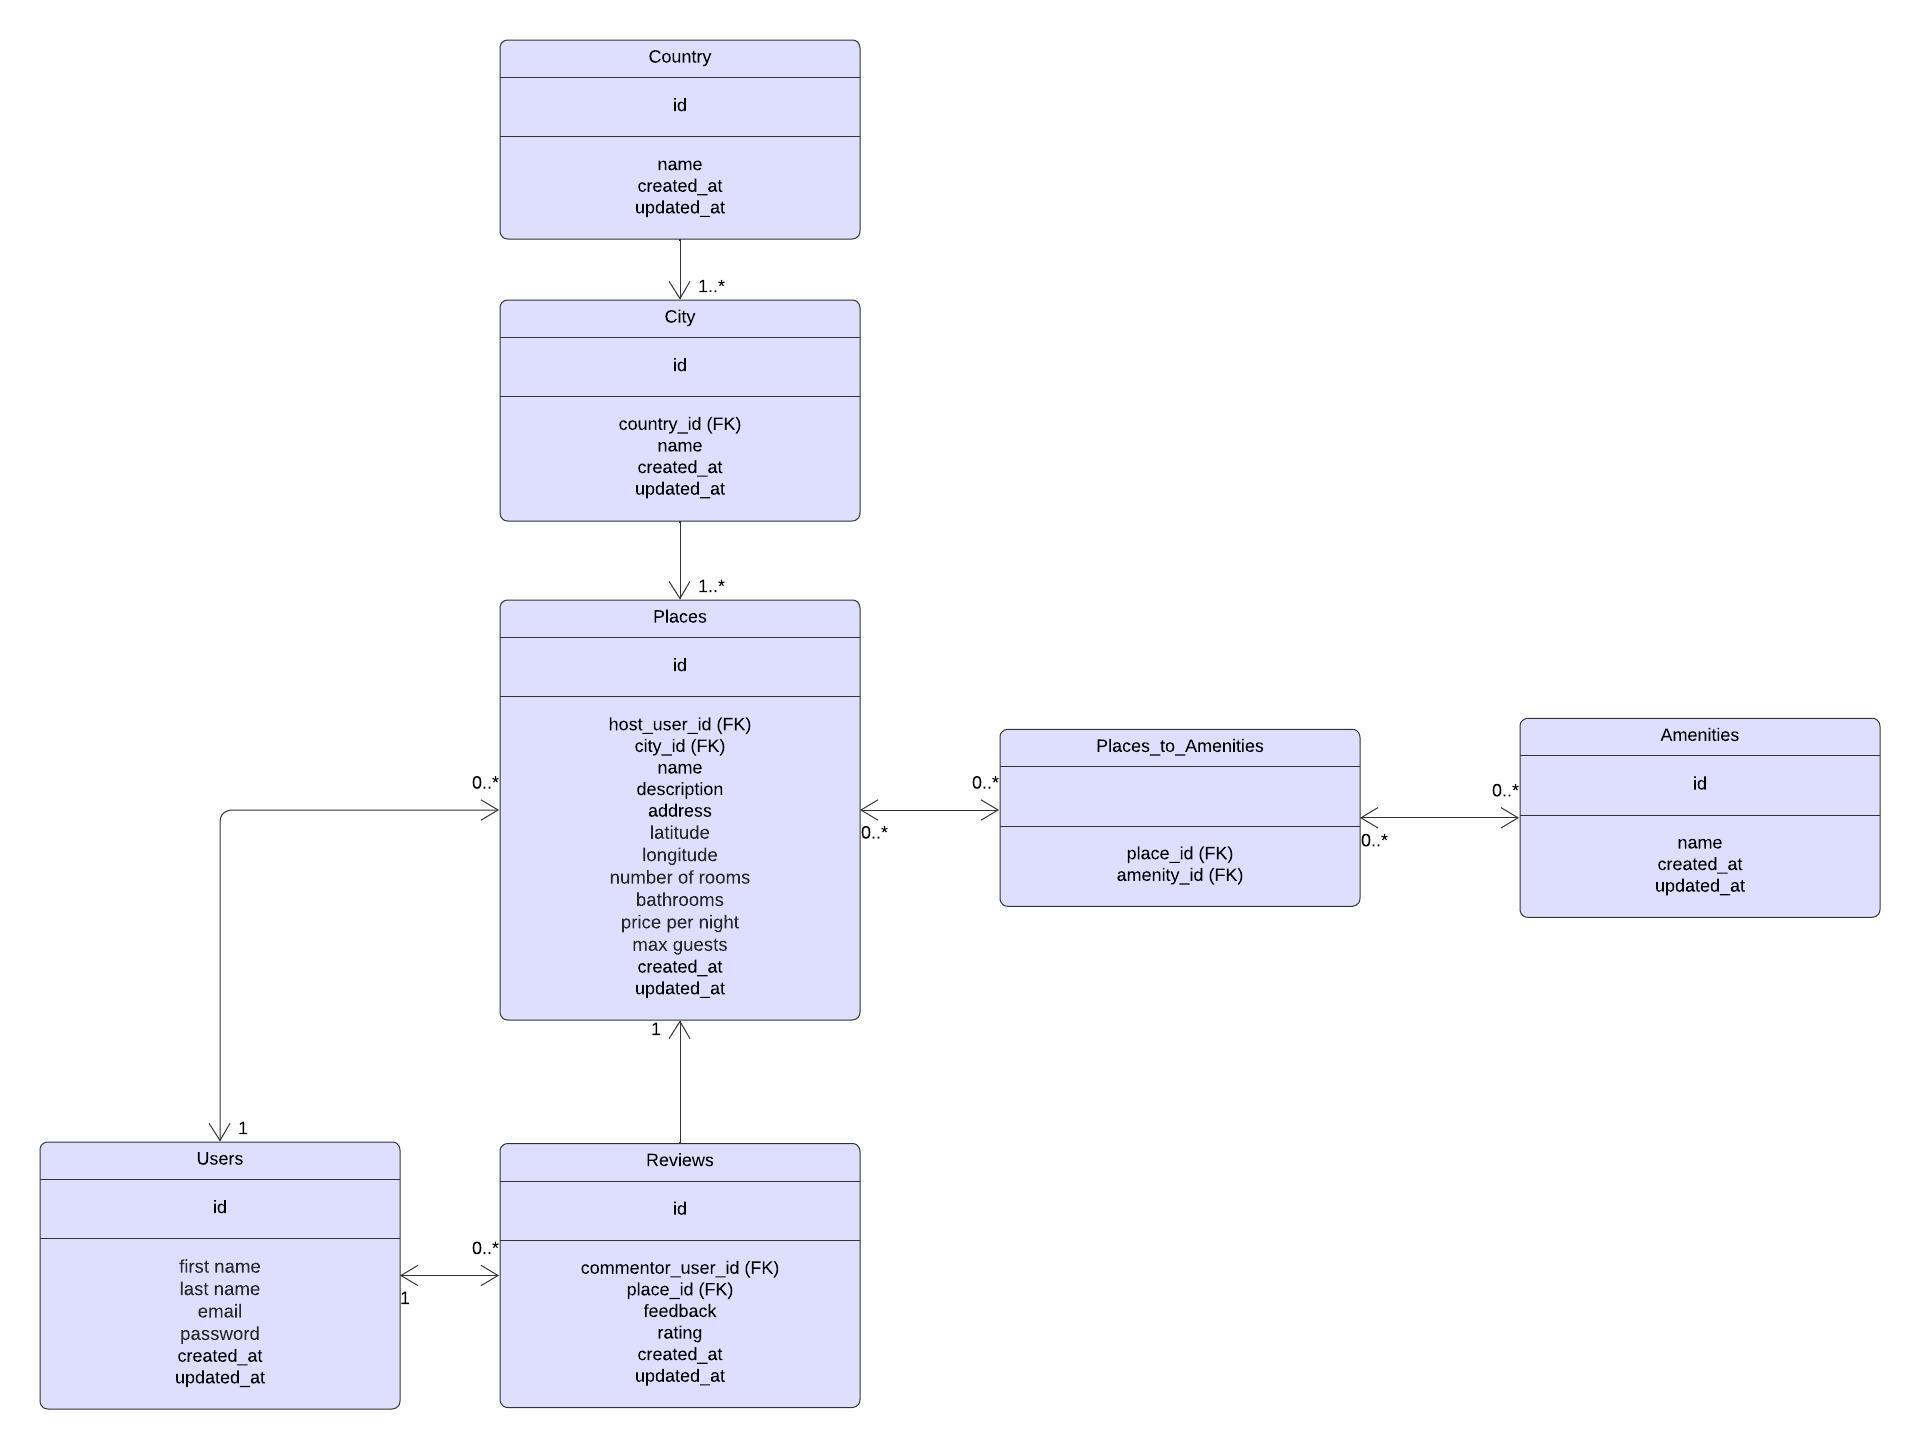
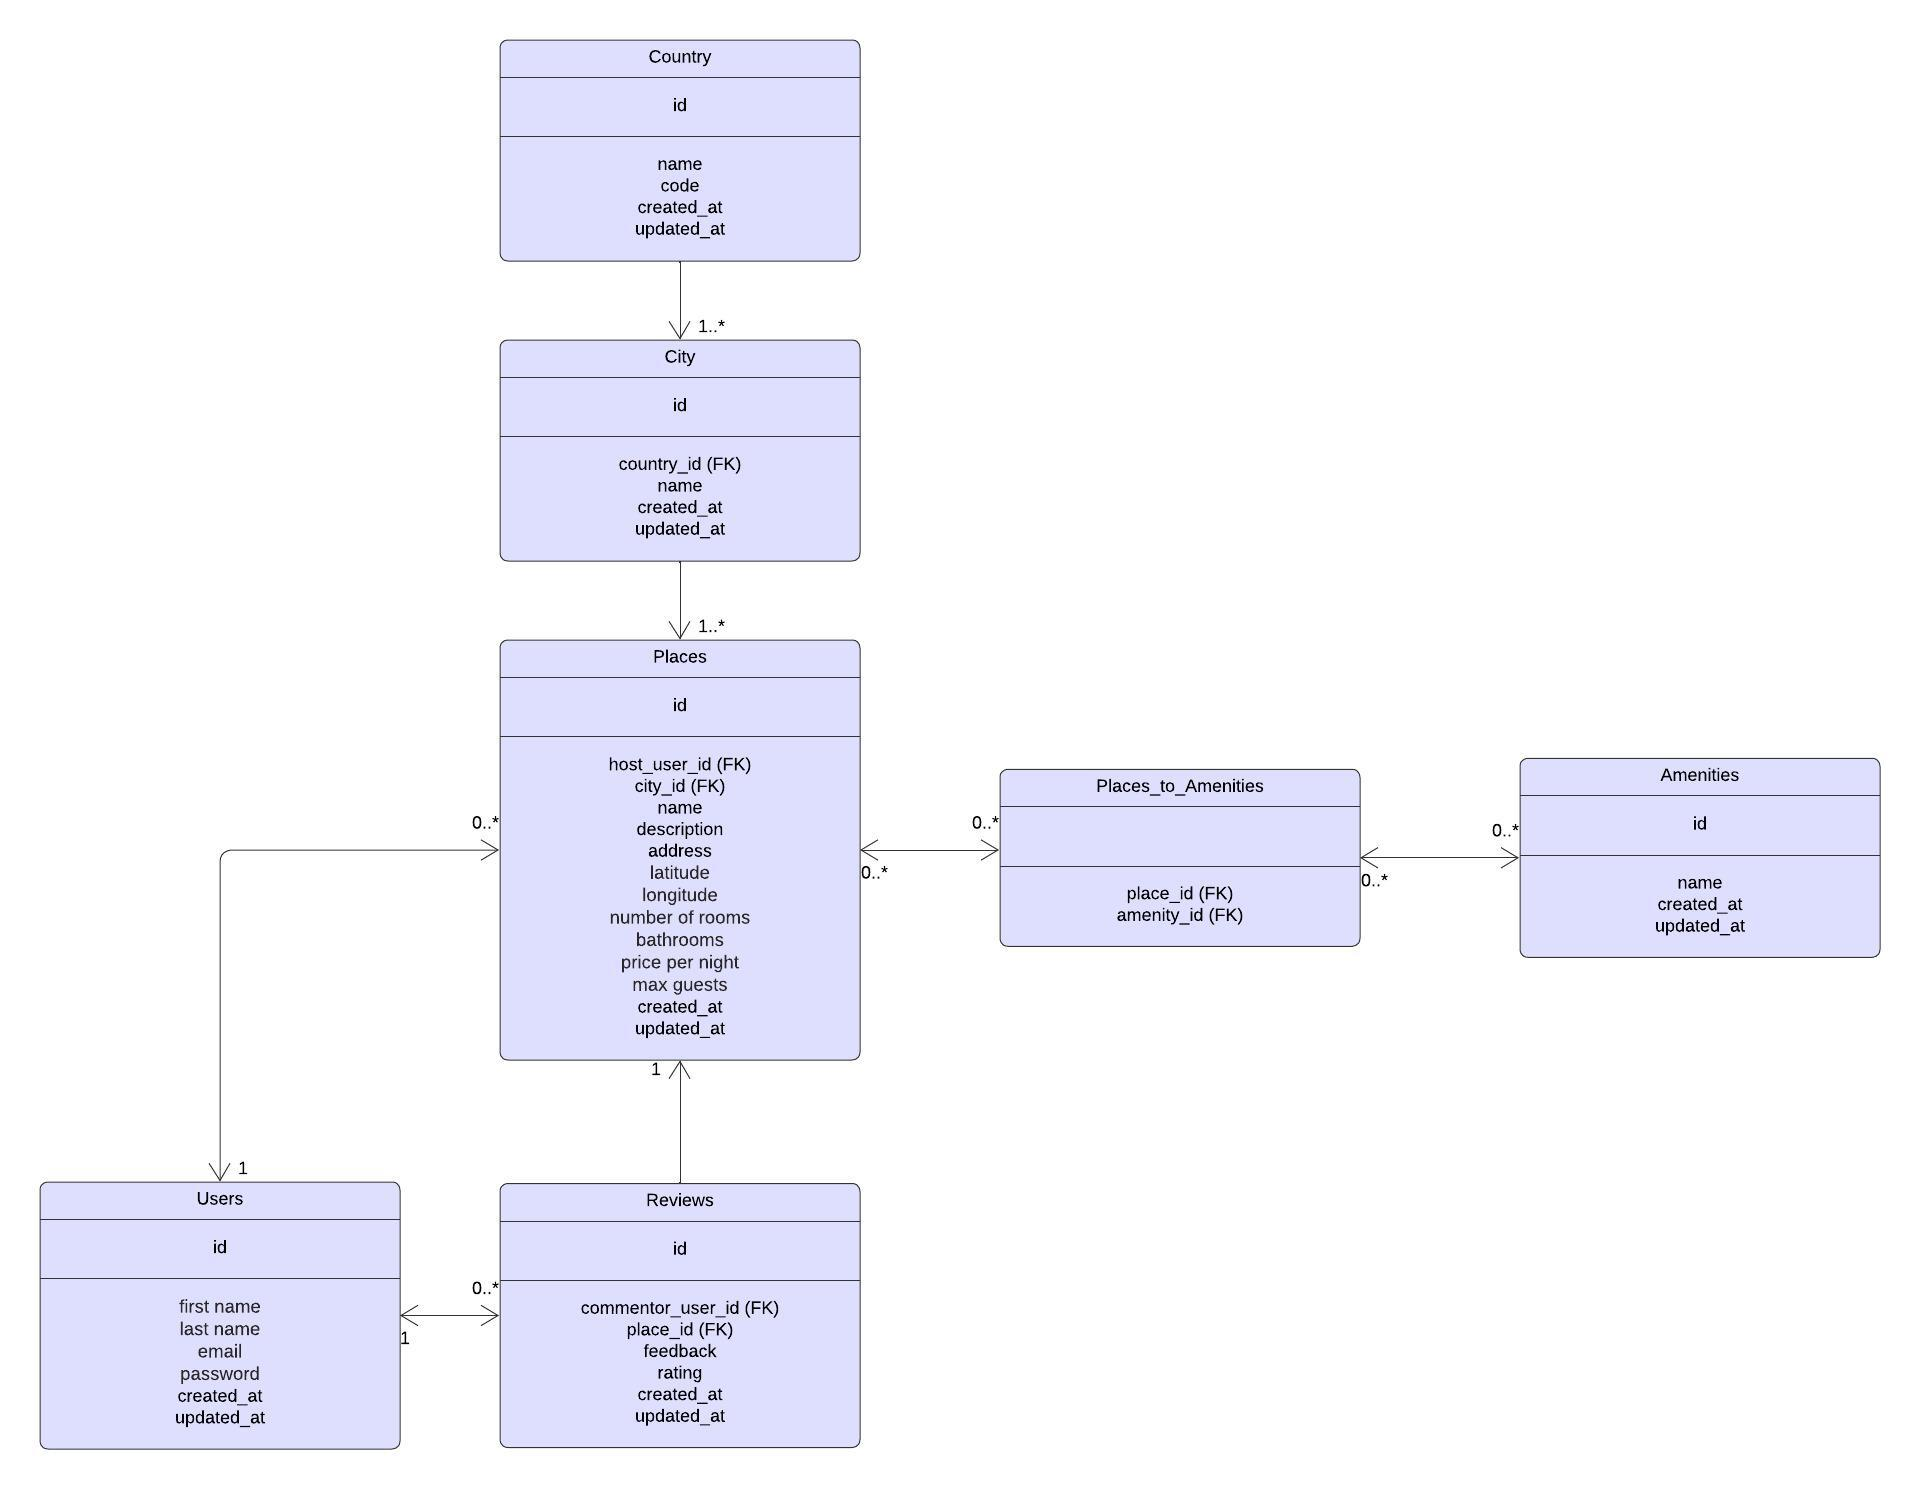
example code is ready for people to download - awaiting containerisation

diff --git a/app.py b/app.py
@@ -3,8 +3,9 @@
 from datetime import datetime
 from flask import Flask, jsonify, request, abort
 from models.city import City
+from models.country import Country
 from models.user import User
-from data import country_data, place_data, amenity_data, place_to_amenity_data, review_data, user_data
+from data import country_data, place_data, amenity_data, place_to_amenity_data, review_data, user_data, city_data
 
 app = Flask(__name__)
 
@@ -109,7 +110,8 @@ def example_places_reviews():
 # - names of the owners of places with toilets
 
 
-#API endpoints
+# --- API endpoints ---
+# --- USER ---
 @app.route('/api/v1/users', methods=["GET"])
 def users_get():
     """returns Users"""
@@ -157,7 +159,7 @@ def users_post():
     #    -H "Content-Type: application/json" /
     #    -d '{"key1":"value1","key2":"value2"}'
 
-    print(request.content_type)
+    # print(request.content_type)
 
     if request.get_json() is None:
         abort(400, "Not a JSON")
@@ -196,11 +198,17 @@ def users_put(user_id):
         abort(400, "Not a JSON")
 
     data = request.get_json()
+
+    if user_id not in user_data:
+        abort(400, "User not found for id {}".format(user_id))
+
     u = user_data[user_id]
 
     # modify the values
     for k, v in data.items():
-        u[k] = v
+        # only first_name and last_name are allowed to be modified
+        if k in ["first_name", "last_name"]:
+            u[k] = v
 
     # update user_data with the new name - print user_data out to confirm it if you
     user_data[user_id] = u
@@ -218,8 +226,130 @@ def users_put(user_id):
     # print out the updated user details
     return jsonify(attribs)
 
+# --- COUNTRY ---
+@app.route('/api/v1/countries', methods=["POST"])
+def countries_post():
+    """ posts data for new country then returns the country data"""
+    # -- Usage example --
+    # curl -X POST [URL] /
+    #    -H "Content-Type: application/json" /
+    #    -d '{"key1":"value1","key2":"value2"}'
+
+    if request.get_json() is None:
+        abort(400, "Not a JSON")
+
+    data = request.get_json()
+    if 'name' not in data:
+        abort(400, "Missing name")
+    if 'code' not in data:
+        abort(400, "Missing country code")
+
+    try:
+        c = Country(name=data["name"],code=data["code"])
+    except ValueError as exc:
+        return repr(exc) + "\n"
+
+    attribs = {
+        "id": c.id,
+        "name": c.name,
+        "code": c.code,
+        "created_at": datetime.fromtimestamp(c.created_at),
+        "updated_at": datetime.fromtimestamp(c.updated_at)
+    }
+
+    return jsonify(attribs)
+
+@app.route('/api/v1/countries', methods=["GET"])
+def countries_get():
+    """ returns countires data """
+    data = []
+
+    for k, v in country_data.items():
+        data.append({
+            "id": v['id'],
+            "name": v['name'],
+            "code": v['code'],
+            "created_at": v['created_at'],
+            "updated_at": v['updated_at']
+        })
+
+    return jsonify(data)
+
+@app.route('/api/v1/countries/<country_code>', methods=["GET"])
+def countries_specific_get(country_code):
+    """ returns specific country data """
+    c = {}
+
+    for k, v in country_data.items():
+        if v['code'] == country_code:
+            data = v
+
+    return jsonify(data)
+
+@app.route('/api/v1/countries/<country_code>', methods=["PUT"])
+def countries_put(country_code):
+    """ updates existing user data using specified id """
+    # -- Usage example --
+    # curl -X PUT [URL] /
+    #    -H "Content-Type: application/json" /
+    #    -d '{"key1":"value1","key2":"value2"}'
+
+    c = {}
+
+    if request.get_json() is None:
+        abort(400, "Not a JSON")
+
+    data = request.get_json()
+    for k, v in country_data.items():
+        if v['code'] == country_code:
+            c = v
+
+    if not c:
+        abort(400, "Country not found for code {}".format(country_code))
+
+    # modify the values
+    # only name is allowed to be modified
+    for k, v in data.items():
+        if k in ["name"]:
+            c[k] = v
+
+    # update country_data with the new name - print country_data out to confirm it if you
+    country_data[c['id']] = c
+
+    attribs = {
+        "id": c["id"],
+        "name": c["name"],
+        "code": c["code"],
+        "created_at": datetime.fromtimestamp(c["created_at"]),
+        "updated_at": datetime.fromtimestamp(c["updated_at"])
+    }
+
+    # print out the updated user details
+    return jsonify(attribs)
+
+@app.route('/api/v1/countries/<country_code>/cities', methods=["GET"])
+def countries_specific_cities_get(country_code):
+    """ returns cities data of specified country """
+    data = []
+    wanted_country_id = ""
+
+    for k, v in country_data.items():
+        if v['code'] == country_code:
+            wanted_country_id = v['id']
+
+    for k, v in city_data.items():
+        if v['country_id'] == wanted_country_id:
+            data.append({
+                "id": v['id'],
+                "name": v['name'],
+                "country_id": v['country_id'],
+                "created_at": v['created_at'],
+                "updated_at": v['updated_at']
+            })
+
+    return jsonify(data)
+
 # Create the rest of the endpoints for:
-#  - Country
 #  - City
 #  - Amenity
 #  - Place

diff --git a/models/country.py b/models/country.py
@@ -1,0 +1,59 @@
+#!/usr/bin/python
+
+from datetime import datetime
+import uuid
+import re
+from data import country_data
+
+class Country():
+    """Representation of country """
+
+    def __init__(self, *args, **kwargs):
+        """ constructor """
+        # super().__init__(*args, **kwargs)
+
+        # defaults
+        self.id = str(uuid.uuid4())
+        self.created_at = datetime.now().timestamp()
+        self.updated_at = self.created_at
+        self.__name = ""
+        self.__code = ""
+
+        # Only allow name, code.
+        # Note that setattr will call the setters for these attribs
+        if kwargs:
+            for key, value in kwargs.items():
+                if key == "name" or key == "code":
+                    setattr(self, key, value)
+
+    @property
+    def name(self):
+        """Getter for private prop name"""
+        return self.__name
+
+    @name.setter
+    def name(self, value):
+        """Setter for private prop name"""
+
+        # ensure that the value is not spaces-only and is alphabets + spaces only
+        is_valid_name = len(value.strip()) > 0 and re.search("^[a-zA-Z ]+$", value)
+        if is_valid_name:
+            self.__name = value
+        else:
+            raise ValueError("Invalid country name specified: {}".format(value))
+
+    @property
+    def code(self):
+        """Getter for private prop code"""
+        return self.__code
+
+    @code.setter
+    def code(self, value):
+        """Setter for private prop code"""
+
+        # ensure that the value is not spaces-only and is two uppercase alphabets only
+        is_valid_code = len(value.strip()) > 0 and re.search("^[A-Z][A-Z]$", value)
+        if is_valid_code:
+            self.__code = value
+        else:
+            raise ValueError("Invalid country code specified: {}".format(value))
